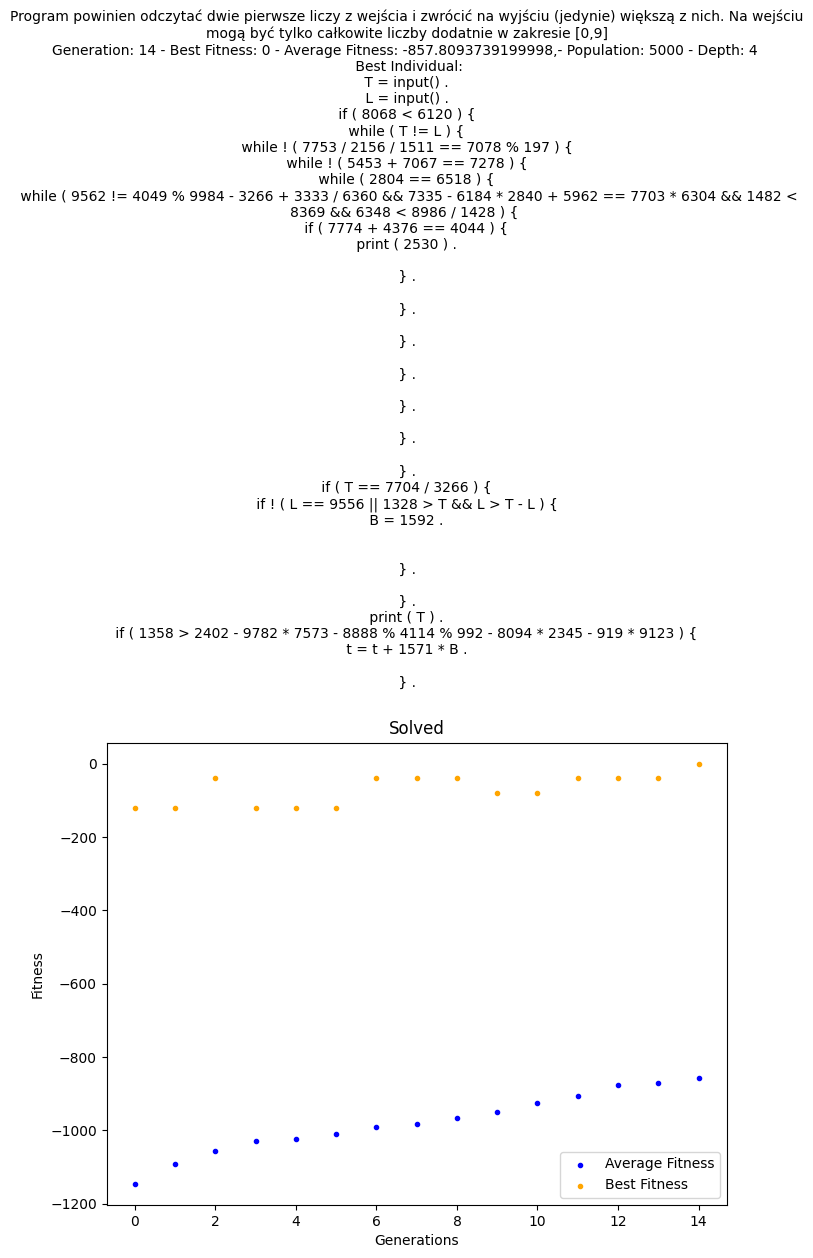
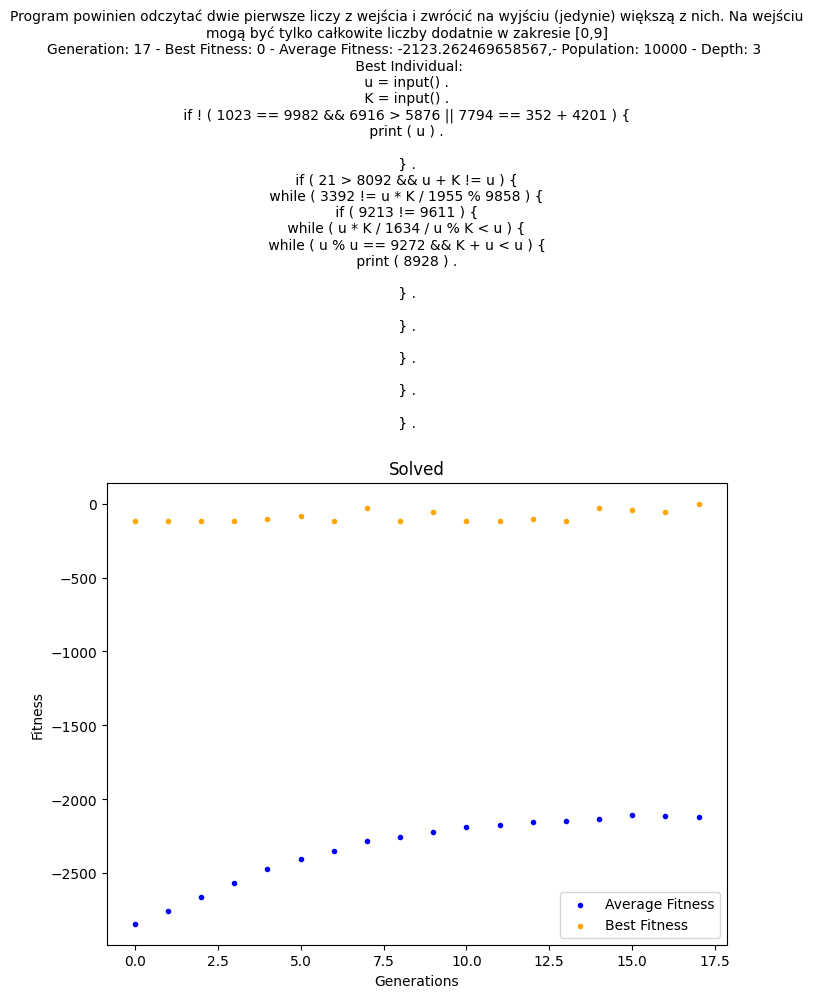
small improvements with ints

diff --git a/testing.py b/testing.py
@@ -23,10 +23,6 @@ def fitness_function_1(program):
         else:
             return -10 * (abs(min(output)) + 1)
     except Exception as e:
-        print("------------------------------------------")
-        print(e)
-        print(program)
-        print("------------------------------------------")
         return -1000
 
 
@@ -260,22 +256,31 @@ def fitness_function_9(program):
 
 def fitness_function_10(program):
     fitness = 0
-    value = -1000
+    value = -1500
     checks = 1
     inputs_count = program.count("input()")
     if inputs_count == 2:
         value += 100
         checks += 1
     else:
-        return -1000
+        return -3000
     split_program = program.split(".")
+    variables = [line[0] for line in split_program if "input()" in line]
+    if len(variables) != 2:
+        raise ValueError("wt")
     if "input()" in split_program[0] and "input()" in split_program[1]:
         value += 500
         checks += 1
-    if any(["if" in x and ("<" in x or ">" in x) for x in split_program[1:]]):
+    if any([("<" in x or ">" in x) and all([v in x for v in variables]) for x in split_program[1:]]):
         value += 100
         checks += 1
+    if any([variables[0] in x and variables[1] in x and "=" in x and "while" not in x and "if" not in x for x in split_program[1:]]):
+        value += 500
+        checks += 1
     if any(["print" in x for x in split_program[1:]]):
+        value += 100
+        checks += 1
+    if any(["print" in x and (variables[0] in x or variables[1] in x )for x in split_program[1:]]):
         value += 100
         checks += 1
     value = value / checks
@@ -286,11 +291,11 @@ def fitness_function_10(program):
         parser = ExprParser(stream)
         tree = parser.prog()
         num_readings = program.count("input()")
-        for _ in range(8):
+        for _ in range(15):
             visitor = ExprVisitor(20, 0, 9)
             output, program_input = visitor.visit(tree)
             # print("Output: ", output)
-            if output[0] == max(program_input[0], program_input[1]) and num_readings == 2 and len(output) == 1:
+            if output[0] == max(program_input[0], program_input[1]) and num_readings == 2 and len(output) == 1 and checks == 7:
                 print("inputs:", program_input)
                 print("Outputs: ", output)
                 fitness += 0
@@ -302,6 +307,51 @@ def fitness_function_10(program):
     except Exception as e:
         # print(e)
         return 8 * (value - len(program) / 10000)
+
+
+def fitness_function_11(program):
+    fitness = 0
+    value = -2500
+    checks = 1
+    inputs_count = program.count("input()")
+    value += max(inputs_count*100, 1000)
+    split_program = program.split(".")
+    variables = [line[0] for line in split_program if "input()" in line]
+    if all(["input()" in x for x in split_program[:10]]):
+        value += 500
+        checks += 1
+    if any(["=" in x and "+" in x and all([v in x for v in variables]) and "while" not in x and "if" not in x for x in split_program[10:]]):
+        value += 500
+        checks += 1
+    for line in split_program:
+        value += line.count("+")
+    if any(["print" in x for x in split_program[10:]]):
+        value += 100
+        checks += 1
+    value = value / checks
+
+    try:
+        lexer = ExprLexer(InputStream(program))
+        stream = CommonTokenStream(lexer)
+        parser = ExprParser(stream)
+        tree = parser.prog()
+        num_readings = program.count("input()")
+        for _ in range(15):
+            visitor = ExprVisitor(20, -99, 99)
+            output, program_input = visitor.visit(tree)
+            if output[0] == sum(program_input) and num_readings == 10 and len(output) == 1:
+                print("inputs:", program_input)
+                print("Outputs: ", output)
+                fitness += 0
+            elif len(output) == 1:
+                fitness += (value - len(program) / 10000)
+            else:
+                fitness += 2 * (value - len(program) / 10000)
+        return fitness
+    except Exception as e:
+        print(e)
+        return 8 * (value - len(program) / 10000)
+
 
 def check_for_variables(program):
     pattern = re.compile(r'print\(([^)]+)\)')
@@ -319,22 +369,28 @@ def check_for_variables(program):
 
 def benchmark1(program):
     fitness = 0
-    value = -1000
-    checks = 1
+    value = -1500
     inputs_count = program.count("input()")
     if inputs_count == 3:
         value += 100
-        checks += 1
-    else:
-        return -1000
     split_program = program.split(".")
+    variables = [line[0] for line in split_program if "input()" in line]
     if "input()" in split_program[0] and "input()" in split_program[1] and "input()" in split_program[2]:
-        value += 500
-        checks += 1
-    if any(["print" in x and ("+" in x and "/" in x) for x in split_program[2:]]):
+        value += 600
+    if any(["print" in x and "/" in x for x in split_program[2:]]):
+        value += 100
+    if any(["print" in x and "+" in x for x in split_program[2:]]):
+        value += 100
+    if any(["print" in x and "+" in x and "/" in x for x in split_program[2:]]):
         value += 200
-        checks += 1
-    value = value / checks
+    if any(all(v in x for v in variables) and "print" in x for x in split_program[2:]):
+        value += 100
+    index = 0
+    for i in range(0, len(split_program)-1):
+        if "print" in split_program[i]:
+            index = i
+            break
+    value = value - index
 
     try:
         lexer = ExprLexer(InputStream(program))
@@ -343,10 +399,10 @@ def benchmark1(program):
         tree = parser.prog()
         num_readings = program.count("input()")
         for _ in range(8):
-            visitor = ExprVisitor(20, 0, 9)
+            visitor = ExprVisitor(20, 1, 9)
             output, program_input = visitor.visit(tree)
-            # print("Output: ", output)
-            if output[0] == program_input[0] + program_input[1]/program_input[2] and num_readings == 3 and len(output) == 1:
+
+            if output[0] == sum(program_input) and num_readings == 3 and len(output) == 1:
                 print("inputs:", program_input)
                 print("Outputs: ", output)
                 fitness += 0
@@ -391,30 +447,57 @@ def benchmark2(program):
 
 
 def benchmark3(program):
+    fitness = 0
+    value = -1500
+    checks = 1
+    inputs_count = program.count("input()")
+    if inputs_count == 1:
+        value += 100
+        checks += 1
+    else:
+        return -1500
+    split_program = program.split(".")
+    variables = [line[0] for line in split_program if "input()" in line]
+    if "input()" in split_program[0] and "= 0" in split_program[1]:
+        value += 400
+        checks += 1
+    if any(["while" in x for x in split_program[2:]]):
+        value += 100
+        checks += 1
+    if any(["print" in x for x in split_program[2:]]):
+        value += 100
+        checks += 1
+    if any(["input()" in x for x in split_program[2:]]):
+        value += 100
+        checks += 1
+    if any([any([v in x for v in variables]) and "=" in x and "+ 1" in x for x in split_program[2:]]):
+        value += 100
+        checks += 1
+    value = value / checks
+
     try:
         lexer = ExprLexer(InputStream(program))
         stream = CommonTokenStream(lexer)
         parser = ExprParser(stream)
         tree = parser.prog()
-        visitor = ExprVisitor()
-        fitness = 0
-        for _ in range(3):
+        num_readings = program.count("input()")
+        for _ in range(4):
+            visitor = ExprVisitor(20, 1, 9)
             output, program_input = visitor.visit(tree)
-            num_readings = program.count("input()")
 
-            # print("Output: ", output)
-            if output[0] == min(program_input) and num_readings == 4 and len(
-                    output) == 1:
+            if output == [x*x for x in range(1, program_input[0]+1)] and num_readings == 1 and len(
+                    output) == program_input[0]:
+                print("inputs:", program_input)
+                print("Outputs: ", output)
                 fitness += 0
-            elif len(output) == 1 or num_readings == 4:
-                fitness += max(-10 * (num_readings * abs(
-                    abs(output[0]) - min(program_input)) + 1 + check_for_variables(program)), -100)
+            elif len(output) == 1:
+                fitness += (value - len(program) / 10000)
             else:
-                fitness += -1000
+                fitness += 2 * (value - len(program) / 10000)
         return fitness
     except Exception as e:
         # print(e)
-        return -1000
+        return 8 * (value - len(program) / 10000)
 
 
 def visualize_fitness(generations, avg_fitness, best_fitness, stats, ex="", success=True,
@@ -474,10 +557,22 @@ if __name__ == '__main__':
     #test(fitness_function_9, "Program powinien odczytać dwie pierwsze liczy z wejścia i zwrócić na wyjściu "
     #                         "(jedynie) ich iloczyn. Na wejściu mogą być tylko całkowite liczby dodatnie w zakresie [-9999,9999]",
     #     "1.2.E")
+    test(fitness_function_10, "Program powinien odczytać dwie pierwsze liczy z wejścia i zwrócić na wyjściu (jedynie)"
+                             " większą z nich. Na wejściu mogą być tylko całkowite liczby dodatnie w zakresie [0,9]",
+         "1.3.A")
     #test(fitness_function_10, "Program powinien odczytać dwie pierwsze liczy z wejścia i zwrócić na wyjściu (jedynie)"
-    #                         " większą z nich. Na wejściu mogą być tylko całkowite liczby dodatnie w zakresie [0,9]",
-    #     "1.3.A")
-    test(benchmark1, "Given an integer and a float, print their sum", "B.1")
+    #                          " większą z nich. Na wejściu mogą być tylko całkowite liczby w zakresie [-9999,9999]",
+    #     "1.3.B")
+    #test(fitness_function_11, "Program powinien odczytać dziesięć pierwszych liczy z wejścia i zwrócić na wyjściu ("
+    #                          "jedynie) ich średnią arytmetyczną (zaokrągloną do pełnej liczby całkowitej). Na "
+    #                          "wejściu mogą być tylko całkowite liczby w zakresie [-99,99]",
+    #     "1.4.A")
+    # test(benchmark1, "Given an integer and a float, print their sum", "B.1")
     # test(benchmark3, "Given 4 integers, print smallest of them", "28/ C.3")
-    # test(benchmark2, "Given the integer n, return the sum of squaring each integer in range[1, n]", "B.3_17")
+    #test(benchmark2, "Given the integer n, return the sum of squaring each integer in range[1, n]", "B.3_17")
+    # test(benchmark3, "Given the integer n, return the vector of squaring each integer in range[1, n]", "B.O_1")
+
+    #print(fitness_function_11("A = input(). \n B = input(). \n C = input(). \n P = input(). \n D = input(). \n F = "
+    #                          "input(). \n G = input(). \n Z = input() .\n J = input(). \n I = input(). \n a = A + B + "
+    #                          "C + D + F + G + Z + P + J + I. \n print(a). \n"))
     pass

diff --git a/gp/BiggerGP.py b/gp/BiggerGP.py
@@ -7,18 +7,17 @@ from antlr4 import *
 from gen.ExprLexer import ExprLexer
 from gen.ExprParser import ExprParser
 from gen.ExprVisitor import ExprVisitor
-import re
 
 
 class BiggerGP:
     """ Class executing genetic algorithm using simple custom programming language"""
 
-    def __init__(self, p_size: int = 5000, depth: int = 4):
-        self.MAX_LEN: int = 6
-        self.MAX_LOGIC_LEN: int = 3
+    def __init__(self, p_size: int = 10000, depth: int = 3, length: int = 5):
+        self.MAX_LEN: int = length
+        self.MAX_LOGIC_LEN: int = 2
         self.POP_SIZE: int = p_size
         self.DEPTH: int = depth
-        self.GENERATIONS: int = 150
+        self.GENERATIONS: int = 50
         self.MATCH_SIZE: int = 2
         self.MUTATION_RATE: int = 10
 
@@ -72,14 +71,12 @@ class BiggerGP:
         }
         self.variables_start = 10000
         self.int_literals_start = 100000
-        self.max_int = 10000
-
+        self.max_int = 100
         self.node_starts: list = [1700, 2000, 1800]
         self.start: int = 1  # expr
         self.node_end: int = 2400  # dot
         self.variables: dict = dict(
             zip([i + self.variables_start for i in range(0, len(string.ascii_letters) - 1)], string.ascii_letters))
-        self.int_literals: dict = {}
         self.variables_buffer: list = []
         self.stats: list = []
 
@@ -169,10 +166,7 @@ class BiggerGP:
 
         for i in range(len(buffer)):  # choose some ints
             if buffer[i] == 2200:
-                index = len(self.int_literals) + self.int_literals_start
-                self.int_literals[index] = random.randint(0, self.max_int)  # can be changed
-                buffer[i] = index
-
+                buffer[i] = random.randint(0, self.max_int) + self.int_literals_start
         return buffer
 
     def generate_random_individual(self, variables=None) -> list:
@@ -246,9 +240,9 @@ class BiggerGP:
                     if len(usable) > 0:
                         result[i] = random.choice(usable)
                     else:
-                        result[i] = random.choice(list(self.int_literals.keys()))
+                        result[i] = random.randint(0, self.max_int) + self.int_literals_start
                 else:
-                    result[i] = random.choice(list(self.int_literals.keys()))
+                    result[i] = random.randint(0, self.max_int) + self.int_literals_start
         return result
 
     def find_index(self, specimen: []) -> tuple:
@@ -297,9 +291,7 @@ class BiggerGP:
         if mutation_type == 0: #mutate ints into different ints
             for i in range(len(specimen)):
                 if specimen[i] > self.int_literals_start:
-                    index = len(self.int_literals) + self.int_literals_start
-                    self.int_literals[index] = random.randint(0, self.max_int)  # can be changed
-                    specimen[i] = index
+                    specimen[i] = random.randint(0, self.max_int) + self.int_literals_start
             return specimen
         if mutation_type == 1: #mutate branch
             (index1_start, index1_end) = self.find_index(specimen)
@@ -376,9 +368,9 @@ class BiggerGP:
         for term in buffer:  # translate terminals
             if term in self.terminal_table.keys():
                 pom.append(self.terminal_table[term])
-            elif term in self.int_literals.keys():
-                pom.append(str(self.int_literals[term]))
-            elif term in self.variables.keys():
+            elif term >= self.int_literals_start:
+                pom.append(str(term - self.int_literals_start))
+            elif term >= self.variables_start:
                 pom.append(self.variables[term])
             else:
                 pom.append(str(term))
@@ -425,8 +417,10 @@ class BiggerGP:
 
 if __name__ == "__main__":
     b = BiggerGP()
+    specimen2 = b.generate_random_individual()
+    print(b.to_string(specimen2))
 
-    for _ in range(100000):
+    """for _ in range(100000):
         try:
 
             specimen2 = b.generate_random_individual()
@@ -447,4 +441,4 @@ if __name__ == "__main__":
             output, _ = visitor.visit(tree)
             # print("Output: ", output)
         except Exception as e:
-            pass
+            pass"""
